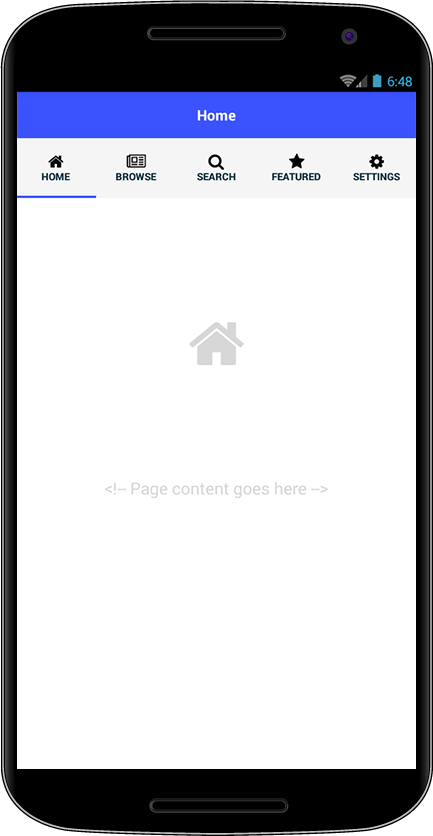
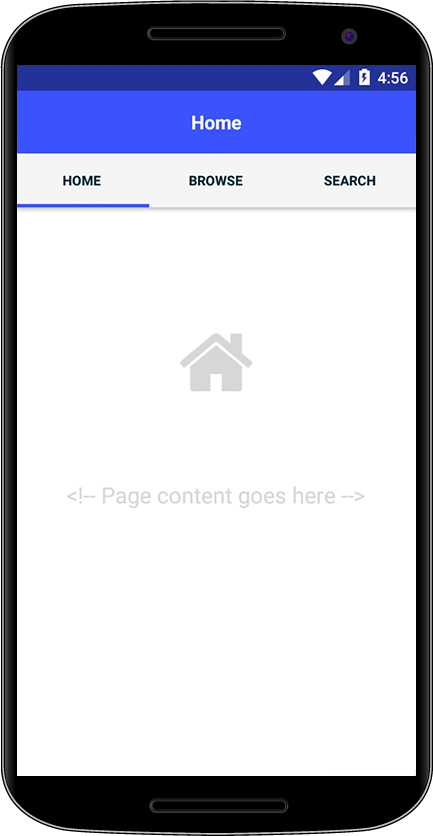
Remove the Settings and Featured tabs (#27)
* Remove the Settings and Featured tabs

- Remove Settings/Featured folders
- Update README.md
- [Android] Remove icons, leave only labels

* Update screenshots

* Rename screenshot image

* Remove iconPath

diff --git a/bundle-config.ts b/bundle-config.ts
@@ -5,8 +5,6 @@ if ((<any>global).TNS_WEBPACK) {
     // register application modules
     global.registerModule("tabs/tabs-page", () => require("./tabs/tabs-page"));
     global.registerModule("browse/Browse", () => require("./browse/BrowseView"));
-    global.registerModule("featured/Featured", () => require("./featured/FeaturedView"));
     global.registerModule("home/Home", () => require("./home/HomeView"));
     global.registerModule("search/Search", () => require("./search/SearchView"));
-    global.registerModule("settings/Settings", () => require("./settings/SettingsView"));
 }

diff --git a/tabs/tabs-view-model.ts b/tabs/tabs-view-model.ts
@@ -9,8 +9,4 @@ export class TabsViewModel extends Observable {
     constructor() {
         super();
     }
-
-    get iconPath(): string {
-        return isAndroid ? "res://" : "res://tabIcons/";
-    }
 }

diff --git a/README.md b/README.md
@@ -35,12 +35,10 @@ tns create my-app-name --template https://github.com/NativeScript/template-tab-n
 There is one main folder that holds the tabs page:
 - `/tabs/tabs-page.ts` - sets up the tab navigation page layout and references the navigatable views contents via custom components.
 
-There are five blank custom components used for the tab views located in these folders:
+There are three blank custom components used for the tab views located in these folders:
 - `/tabs/browse`
-- `/tabs/featured`
 - `/tabs/home`
 - `/tabs/search`
-- `/tabs/settings`
 
 ### Styling
 This template is set up to use SASS for styling. All classes used are based on the {N} core theme – consult the [documentation](https://docs.nativescript.org/angular/ui/theme.html#theme) to understand how to customize it. Check it out to see what classes you can use on which component.
